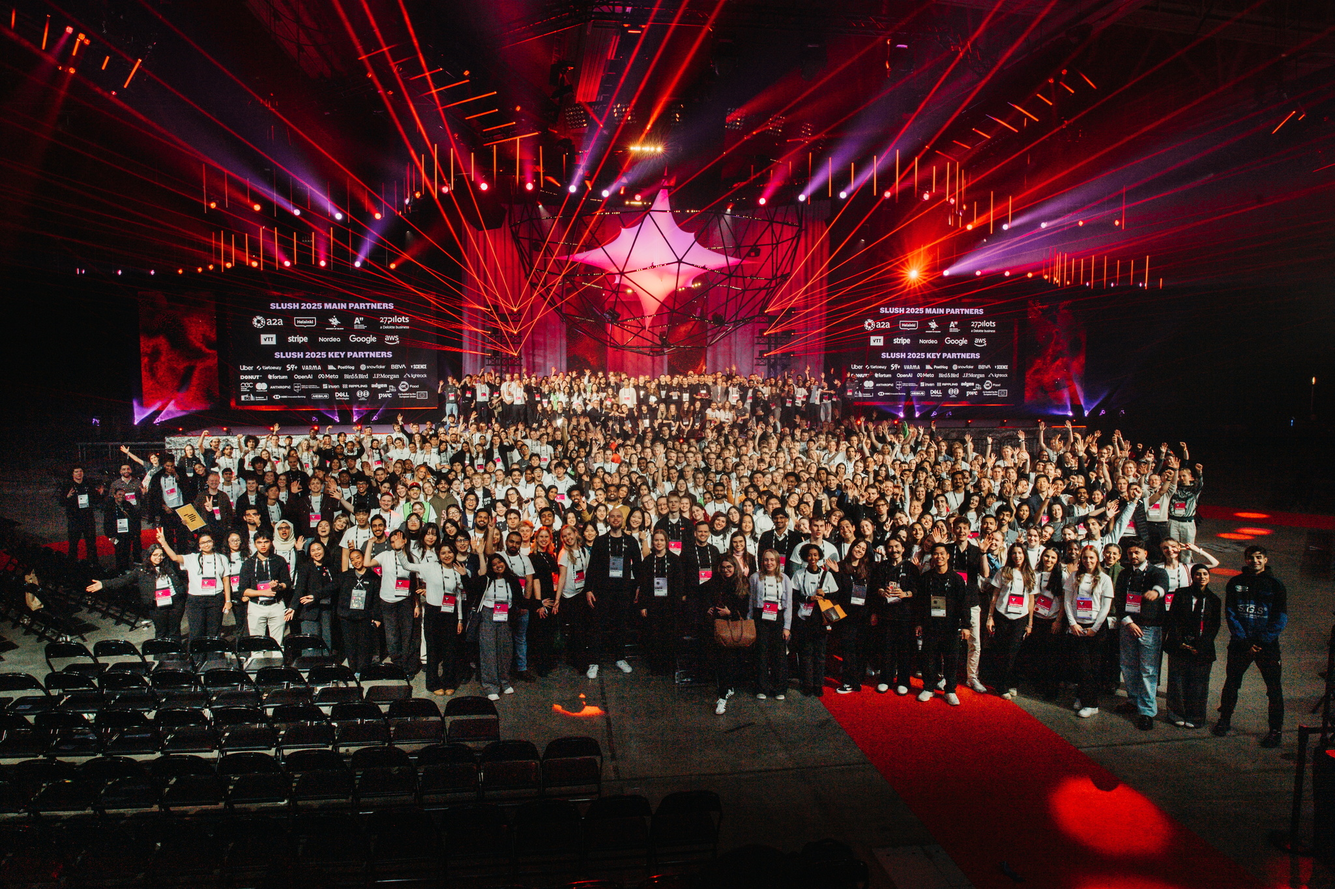
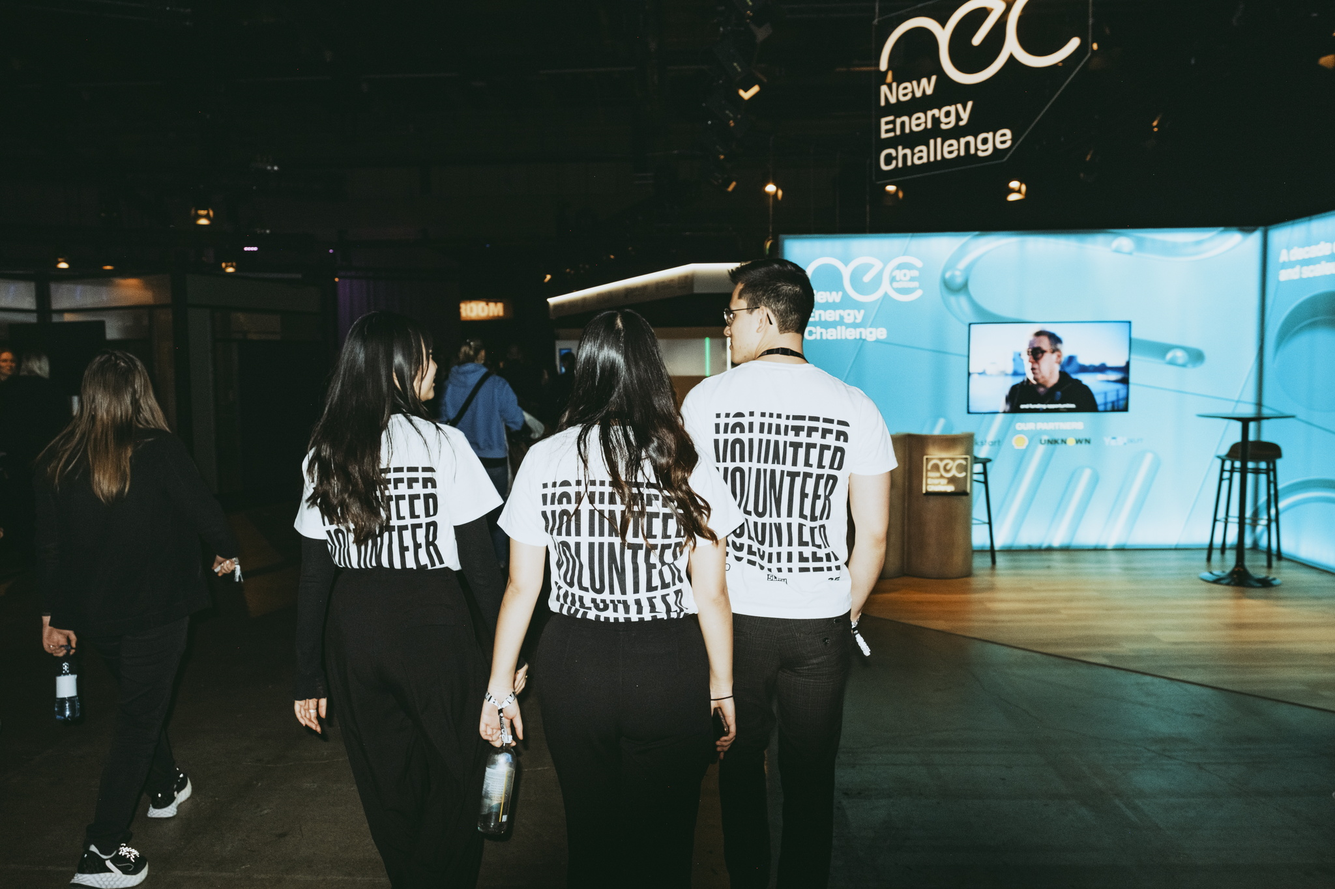
feat: new headshot + responsivness

diff --git a/design-system/components/navigation.css b/design-system/components/navigation.css
@@ -89,3 +89,149 @@
   outline: 2px solid var(--color-focus-ring);
   outline-offset: 2px;
 }
+
+.topnav-toggle {
+  display: none;
+  align-items: center;
+  justify-content: center;
+  flex-shrink: 0;
+  width: 36px;
+  height: 36px;
+  margin-left: auto;
+  padding: 0;
+  border: 0;
+  border-radius: var(--radius-md);
+  background: transparent;
+  color: var(--fg);
+  cursor: pointer;
+}
+
+.topnav-toggle:hover {
+  background: var(--color-glass-hover);
+}
+
+.topnav-toggle:focus-visible {
+  outline: 2px solid var(--color-focus-ring);
+  outline-offset: 2px;
+}
+
+.topnav-toggle-icon {
+  position: relative;
+  display: block;
+  width: 16px;
+  height: 12px;
+}
+
+.topnav-toggle-icon span {
+  position: absolute;
+  left: 0;
+  right: 0;
+  height: 1.5px;
+  background: currentColor;
+  border-radius: 1px;
+  transition:
+    transform var(--duration-base) var(--ease-default),
+    opacity var(--duration-base) var(--ease-default),
+    top var(--duration-base) var(--ease-default);
+}
+
+.topnav-toggle-icon span:nth-child(1) { top: 0; }
+.topnav-toggle-icon span:nth-child(2) { top: 5px; }
+.topnav-toggle-icon span:nth-child(3) { top: 10px; }
+
+.topnav.is-open .topnav-toggle-icon span:nth-child(1) {
+  top: 5px;
+  transform: rotate(45deg);
+}
+
+.topnav.is-open .topnav-toggle-icon span:nth-child(2) {
+  opacity: 0;
+}
+
+.topnav.is-open .topnav-toggle-icon span:nth-child(3) {
+  top: 5px;
+  transform: rotate(-45deg);
+}
+
+@media (max-width: 720px) {
+  html.has-nav-js .topnav {
+    display: flex;
+    flex-wrap: wrap;
+    align-items: center;
+    width: calc(100vw - 24px);
+    max-width: none;
+    padding: 6px 6px 6px 12px;
+    gap: 0;
+  }
+
+  html.has-nav-js .topnav-brand {
+    flex: 1;
+    min-width: 0;
+  }
+
+  html.has-nav-js .topnav-logo {
+    flex-shrink: 0;
+  }
+
+  html.has-nav-js .topnav-brand span {
+    min-width: 0;
+    overflow: hidden;
+    text-overflow: ellipsis;
+  }
+
+  html.has-nav-js .topnav-divider {
+    display: none;
+  }
+
+  html.has-nav-js .topnav-toggle {
+    display: inline-flex;
+  }
+
+  html.has-nav-js .topnav-links {
+    display: flex;
+    flex-direction: column;
+    align-items: stretch;
+    flex-basis: 100%;
+    width: 100%;
+    max-height: 0;
+    margin-top: 0;
+    overflow: hidden;
+    opacity: 0;
+    visibility: hidden;
+    pointer-events: none;
+    gap: 0;
+    transition:
+      max-height 220ms var(--ease-default),
+      opacity 180ms var(--ease-default),
+      margin-top 220ms var(--ease-default),
+      visibility 0s 220ms;
+  }
+
+  html.has-nav-js .topnav.is-open .topnav-links {
+    max-height: min(70vh, 32rem);
+    margin-top: 4px;
+    overflow-y: auto;
+    opacity: 1;
+    visibility: visible;
+    pointer-events: auto;
+    transition:
+      max-height 220ms var(--ease-default),
+      opacity 180ms var(--ease-default),
+      margin-top 220ms var(--ease-default),
+      visibility 0s;
+  }
+
+  html.has-nav-js .topnav-links a {
+    display: block;
+    padding: 10px 12px;
+    white-space: normal;
+  }
+}
+
+@media (max-width: 720px) and (prefers-reduced-motion: reduce) {
+  html.has-nav-js .topnav-links,
+  html.has-nav-js .topnav.is-open .topnav-links,
+  .topnav-toggle-icon span {
+    transition: none;
+  }
+}

diff --git a/design-system/nav.js b/design-system/nav.js
@@ -1,0 +1,59 @@
+(function () {
+  const nav = document.querySelector(".topnav");
+  const links = nav && nav.querySelector(".topnav-links");
+  if (!nav || !links) return;
+
+  document.documentElement.classList.add("has-nav-js");
+
+  if (!links.id) links.id = "topnav-links";
+
+  const toggle = document.createElement("button");
+  toggle.type = "button";
+  toggle.className = "topnav-toggle";
+  toggle.setAttribute("aria-expanded", "false");
+  toggle.setAttribute("aria-controls", links.id);
+  toggle.setAttribute("aria-label", "Open menu");
+  toggle.innerHTML =
+    '<span class="topnav-toggle-icon" aria-hidden="true">' +
+    "<span></span><span></span><span></span>" +
+    "</span>";
+
+  const divider = nav.querySelector(".topnav-divider");
+  nav.insertBefore(toggle, divider || links);
+
+  function setOpen(open) {
+    nav.classList.toggle("is-open", open);
+    toggle.setAttribute("aria-expanded", String(open));
+    toggle.setAttribute("aria-label", open ? "Close menu" : "Open menu");
+  }
+
+  function isMobileNav() {
+    return window.matchMedia("(max-width: 720px)").matches;
+  }
+
+  toggle.addEventListener("click", function () {
+    setOpen(!nav.classList.contains("is-open"));
+  });
+
+  links.querySelectorAll("a").forEach(function (link) {
+    link.addEventListener("click", function () {
+      if (isMobileNav()) setOpen(false);
+    });
+  });
+
+  document.addEventListener("keydown", function (event) {
+    if (event.key === "Escape" && nav.classList.contains("is-open")) {
+      setOpen(false);
+      toggle.focus();
+    }
+  });
+
+  document.addEventListener("click", function (event) {
+    if (!nav.classList.contains("is-open")) return;
+    if (!nav.contains(event.target)) setOpen(false);
+  });
+
+  window.matchMedia("(max-width: 720px)").addEventListener("change", function (event) {
+    if (!event.matches) setOpen(false);
+  });
+})();

diff --git a/slush-volunteer-report-2026.html b/slush-volunteer-report-2026.html
@@ -18,6 +18,7 @@
   <script src="https://cdn.jsdelivr.net/npm/chartjs-plugin-datalabels@2.2.0/dist/chartjs-plugin-datalabels.min.js"></script>
 
   <link rel="stylesheet" href="design-system/slush.css">
+  <script src="design-system/nav.js" defer></script>
   <style>
     .founder-list {
       margin: 24px 0 0;
@@ -76,7 +77,7 @@
   </nav>
 
   <section class="hero" id="top" aria-labelledby="hero-title">
-    <div class="hero-image hero-image--volunteer-report-2026" role="img" aria-label="Four Slush volunteers who went on to found companies"></div>
+    <div class="hero-image hero-image--volunteer-report-2026" role="img" aria-label="Slush volunteers walking toward the stage"></div>
     <div class="hero-overlay"></div>
     <div class="hero-content">
       <div class="eyebrow">Slush Impact Report Series &mdash; Volunteer to Founder</div>

diff --git a/slush-founder-factory-report-2025.html b/slush-founder-factory-report-2025.html
@@ -18,6 +18,7 @@
   <script src="https://cdn.jsdelivr.net/npm/chartjs-plugin-datalabels@2.2.0/dist/chartjs-plugin-datalabels.min.js"></script>
 
   <link rel="stylesheet" href="design-system/slush.css">
+  <script src="design-system/nav.js" defer></script>
   <style>
     .partners-intro {
       font-size: var(--text-lg);

diff --git a/startup-report-2026.html b/startup-report-2026.html
@@ -18,6 +18,7 @@
   <script src="https://cdn.jsdelivr.net/npm/chartjs-plugin-datalabels@2.2.0/dist/chartjs-plugin-datalabels.min.js"></script>
 
   <link rel="stylesheet" href="design-system/slush.css">
+  <script src="design-system/nav.js" defer></script>
   <style>
     /* ── Why It Matters ── */
     .why-grid {

diff --git a/finnish-founder-survey-2026.html b/finnish-founder-survey-2026.html
@@ -18,6 +18,7 @@
   <script src="https://cdn.jsdelivr.net/npm/chartjs-plugin-datalabels@2.2.0/dist/chartjs-plugin-datalabels.min.js"></script>
 
   <link rel="stylesheet" href="design-system/slush.css">
+  <script src="design-system/nav.js" defer></script>
 </head>
 
 <body>

diff --git a/startup-struggle-survey-2024.html b/startup-struggle-survey-2024.html
@@ -18,6 +18,7 @@
   <script src="https://cdn.jsdelivr.net/npm/chartjs-plugin-datalabels@2.2.0/dist/chartjs-plugin-datalabels.min.js"></script>
 
   <link rel="stylesheet" href="design-system/slush.css">
+  <script src="design-system/nav.js" defer></script>
 </head>
 
 <body>

diff --git a/startup-struggle-survey-2025.html b/startup-struggle-survey-2025.html
@@ -18,6 +18,7 @@
   <script src="https://cdn.jsdelivr.net/npm/chartjs-plugin-datalabels@2.2.0/dist/chartjs-plugin-datalabels.min.js"></script>
 
   <link rel="stylesheet" href="design-system/slush.css">
+  <script src="design-system/nav.js" defer></script>
 </head>
 
 <body>

diff --git a/entrepreneurship-redefined-2020.html b/entrepreneurship-redefined-2020.html
@@ -15,6 +15,7 @@
   <link href="https://fonts.googleapis.com/css2?family=Inter:wght@400;500;700;900&display=swap" rel="stylesheet">
 
   <link rel="stylesheet" href="design-system/slush.css">
+  <script src="design-system/nav.js" defer></script>
 </head>
 
 <body>

diff --git a/index.html b/index.html
@@ -15,6 +15,7 @@
   <link href="https://fonts.googleapis.com/css2?family=Inter:wght@400;500;700;900&display=swap" rel="stylesheet">
 
   <link rel="stylesheet" href="design-system/slush.css">
+  <script src="design-system/nav.js" defer></script>
 </head>
 
 <body>

diff --git a/design-system/components/footer.css b/design-system/components/footer.css
@@ -37,15 +37,4 @@ footer {
   .topnav-logo {
     height: 18px;
   }
-
-  .topnav-links a {
-    padding: 6px 8px;
-    font-size: var(--text-sm);
-    letter-spacing: 0;
-  }
-
-  .topnav-divider {
-    margin: 0 4px;
-    height: 16px;
-  }
 }

diff --git a/design-system/components/hero.css b/design-system/components/hero.css
@@ -42,7 +42,7 @@
 
 .hero-image--volunteer-report-2026 {
   background-image: url('../../assets/hero-volunteer-report-2026.jpg');
-  background-position: center 30%;
+  background-position: center 40%;
 }
 
 .hero-overlay {
